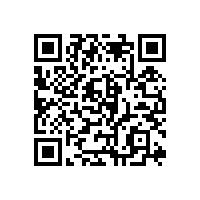
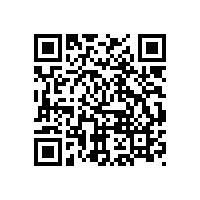
fixes+Quiz

Changed region(s): [[0.15, 0.15, 0.84, 0.84]]

diff --git a/PiDev/src/main/java/com/pi/dev/service/CertificationServiceImpl.java b/PiDev/src/main/java/com/pi/dev/service/CertificationServiceImpl.java
@@ -1,10 +1,18 @@
 package com.pi.dev.service;
 
+import java.util.ArrayList;
+import java.util.HashMap;
+import java.util.LinkedHashMap;
 import java.util.List;
+import java.util.ListIterator;
+import java.util.Map;
+import java.util.TreeMap;
+import java.util.concurrent.ConcurrentHashMap;
 
 import com.pi.dev.models.Certification;
 import com.pi.dev.models.Questions;
 import com.pi.dev.models.Quiz;
+import com.pi.dev.models.ReputationLevel;
 import com.pi.dev.models.Training;
 import com.pi.dev.models.User;
 import com.pi.dev.repository.CertificationRepository;
@@ -17,7 +25,10 @@ import org.springframework.beans.factory.annotation.Autowired;
 
 import org.springframework.stereotype.Service;
 
+import lombok.extern.slf4j.Slf4j;
+
 @Service
+@Slf4j
 public class CertificationServiceImpl implements ICertificationService{
 
     @Autowired
@@ -49,11 +60,104 @@ public class CertificationServiceImpl implements ICertificationService{
                 certif = certification;
             }
         }
-        if(certif.getScore()>questions.size())
+        
+        if((certif.getScore()*100)/questions.size()> 60 )
         {
             return certif;
         }
         return null;
   }
+    private void changeReputation(Long idUser){
+        User user = ur.findById(idUser).orElse(null);
+        int x =user.getReputationPoints();
+        if(x<0){
+            user.setReputationLevel(ReputationLevel.Hated);
+        }else if(x>=0 && x<200){
+            user.setReputationLevel(ReputationLevel.Neutral);
+
+        }
+        else if(x>=200 && x<800){
+            user.setReputationLevel(ReputationLevel.Honorod);
+
+        }else if(x>=800 && x<2000){
+            user.setReputationLevel(ReputationLevel.Exalted);
+        }
+
+        ur.save(user);
+    }
+    @Override
+    public String takeQuiz(Long idUser, Long idQuiz, String s) {
+        Quiz qz = quir.findById(idQuiz).orElse(null);
+        User user = ur.findById(idUser).orElse(null);
+        Training tr = qz.getTraining();
+		List<Questions> qts= qz.getQuestions();
+        List<String> answrs= new ArrayList<String>();
+        List<Integer> results= new ArrayList<Integer>();
+        List<Integer> answrsIndexs= new ArrayList<Integer>();
+        List<Certification> certifs = user.getCertif();
+        Certification certif = new Certification();
+
+        for (Certification certification : certifs) {
+            if(certification.getTraining().equals(tr)){
+                certif=certification;
+            }
+        }
+        
+        for (int i = 0; i < s.length(); i++) {
+            char c =s.charAt(i);
+            int a=Character.getNumericValue(c);  
+            System.out.println(a);
+            results.add(a);
+        }
+            for (Questions questions : qts) {
+                System.out.println(questions.getLabel());
+                for (String st : questions.getAnswers()) {
+                    if(st.equals(questions.getPrompt())){
+                        System.out.println(questions.getAnswers().indexOf(st));
+                        answrsIndexs.add(questions.getAnswers().indexOf(st));
+                    }
+                }
+               
+
+            }
+           
+         int sc=0;
+        for (ListIterator<Integer> iter = results.listIterator(); iter.hasNext(); ) {
+            for (Integer x : answrsIndexs) {
+
+            int et = iter.next();
+            if(et==x)  {
+                System.out.println("true");
+                sc+=1;
+            }  
+            else{
+                System.out.println("false");
+            }
+            }
+
+
+        }
+        int res = (sc*100)/qts.size();
+        certif.setScore(res);
+        cr.save(certif);
+       
+        System.out.println("the results: "+ results);
+        System.out.println("theindexs: "+ answrsIndexs);
+
+        
+        
+        if(res>=60){
+            user.setReputationPoints(user.getReputationPoints()+200);
+            changeReputation(idUser);
+            return "Congratz , u ve passed the test with a score of " + res +" % , you can claim your certification now By scanning the Qr Code click below !! ";
+
+        }
+        else{
+            return "unfortunately u failed at the test ";
+
+        }
+      
+
+    }
     
 }

diff --git a/PiDev/src/main/java/com/pi/dev/service/TrainingServiceImpl.java b/PiDev/src/main/java/com/pi/dev/service/TrainingServiceImpl.java
@@ -16,6 +16,7 @@ import org.springframework.stereotype.Service;
 import com.pi.dev.models.Certification;
 import com.pi.dev.models.Questions;
 import com.pi.dev.models.Quiz;
+import com.pi.dev.models.ReputationLevel;
 import com.pi.dev.models.Training;
 import com.pi.dev.models.User;
 import com.pi.dev.repository.CertificationRepository;
@@ -109,14 +110,39 @@ public class TrainingServiceImpl implements ITrainingService {
 	public void ParticipateToTraining(Long userId, Long trainingId) {
 		// TODO Auto-generated method stub
 		Training tr = qr.findById(trainingId).orElse(null);
+		Training trjoined = new Training();
+
 		User user = ur.findById(userId).orElse(null);
 		Certification certif = new Certification();
+		List<Certification> certifs = user.getCertif();
+		Certification certifjoined = new Certification();
 
-		certif.setTraining(tr);
-		certif.setUser(user);
-		cr.save(certif);
-		tr.setMaxNbrParticipants(tr.getMaxNbrParticipants() + 1);
-		qr.save(tr);
+		for (Certification certification : certifs) {
+			if(certification.getTraining().equals(tr)){
+				trjoined=certification.getTraining();
+			}
+		}
+		
+
+
+		if(!user.getReputationLevel().equals(ReputationLevel.Hated) ){
+			if(tr.equals(trjoined)){
+				System.out.println("Already Joined");
+
+			}else{
+				certif.setTraining(tr);
+				certif.setUser(user);
+				cr.save(certif);
+				tr.setMaxNbrParticipants(tr.getMaxNbrParticipants() + 1);
+				qr.save(tr);
+			}
+		
+		}
+		else
+		{
+			System.out.println("you r being suspended from joining training because of bad reputation");
+		}
+		
 	}
 
 	@Override
@@ -211,9 +237,8 @@ public class TrainingServiceImpl implements ITrainingService {
 		List<String> searchs = user.getSearchHistory();
 		List<Training> alltrainings = qr.findAll();
 		List<Training> recommendedTrainings = new ArrayList<Training>();
-
 		Map<String, Integer> recmds = new LinkedHashMap<String, Integer>();
-
+		
 		for (String sear : searchs) {
 			String[] arrOfStr = sear.split(" ", 5);
 			for (String a : arrOfStr) {
@@ -241,7 +266,6 @@ public class TrainingServiceImpl implements ITrainingService {
 				}
 			}
 		}
-		// TODO Auto-generated method stub
 		return recommendedTrainings;
 	}
 

diff --git a/PiDev/src/main/java/com/pi/dev/controllers/TrainingRestController.java b/PiDev/src/main/java/com/pi/dev/controllers/TrainingRestController.java
@@ -33,6 +33,7 @@ import com.pi.dev.models.CodeGenerator;
 import com.pi.dev.models.Quiz;
 import com.pi.dev.models.Training;
 import com.pi.dev.models.User;
+import com.pi.dev.repository.TrainingRepository;
 import com.pi.dev.repository.UserRepository;
 import com.pi.dev.serviceInterface.ITrainingService;
 
@@ -55,6 +56,8 @@ public class TrainingRestController {
 	ITrainingService qs;
 	@Autowired
 	UserRepository userrepository;
+	@Autowired
+	TrainingRepository tr;
     //http://localhost:8087/SpringMVC/swagger-ui/index.html
 	
 	@ApiOperation(value = "add training")
@@ -140,9 +143,10 @@ public class TrainingRestController {
 	}
 	//QR Code Generator Test v1
 	@ApiOperation(value = "QR Code test")
-	@PostMapping(value = "/qrcode/{user-id}",produces = MediaType.IMAGE_JPEG_VALUE)
-    public ResponseEntity<byte[]> zxingQRCode(@PathVariable("user-id") Long idUser) throws WriterException, IOException, NotFoundException{
+	@PostMapping(value = "/qrcode/{user-id}/{training-id}",produces = MediaType.IMAGE_JPEG_VALUE)
+    public ResponseEntity<byte[]> zxingQRCode(@PathVariable("user-id") Long idUser , @PathVariable("training-id") Long idTraining ) throws WriterException, IOException, NotFoundException{
 		User user=userrepository.findById(idUser).orElse(null);
+		Training train=tr.findById(idTraining).orElse(null);
 
 		//path where we want to get QR Code  
 		String path = "C:\\Users\\Mr.Khlifi\\OneDrive\\Bureau\\backup\\pi-4sae8\\PiDev\\src\\main\\resources\\images\\myQrCode.jpg";  
@@ -153,7 +157,7 @@ public class TrainingRestController {
 		//generates QR code with Low level(L) error correction capability  
 		hashMap.put(EncodeHintType.ERROR_CORRECTION, ErrorCorrectionLevel.L);  
 		//invoking the user-defined method that creates the QR code  
-		String str= " Congratz !! This is your certification"+user.getFirstName()+" "+user.getLastName();  
+		String str= " Congratz !! This is your certification"+user.getFirstName()+" "+user.getLastName() +" On : " +train.getSubject()+ " .";  
 
 		CodeGenerator.generateQRcode(str, path, charset, hashMap, 200, 200);//increase or decrease height and width accodingly   
 		//prints if the QR code is generated   

diff --git a/PiDev/src/main/java/com/pi/dev/controllers/CertificationController.java b/PiDev/src/main/java/com/pi/dev/controllers/CertificationController.java
@@ -1,13 +1,30 @@
 package com.pi.dev.controllers;
 
+import com.pi.dev.models.Quiz;
+import com.pi.dev.serviceInterface.ICertificationService;
+
+import org.springframework.beans.factory.annotation.Autowired;
+import org.springframework.web.bind.annotation.PathVariable;
+import org.springframework.web.bind.annotation.PostMapping;
 import org.springframework.web.bind.annotation.RequestMapping;
+import org.springframework.web.bind.annotation.ResponseBody;
 import org.springframework.web.bind.annotation.RestController;
 
 import io.swagger.annotations.Api;
+import io.swagger.annotations.ApiOperation;
+import io.swagger.v3.oas.annotations.parameters.RequestBody;
 
 @RestController
 @Api(tags = "Manage certification")
 @RequestMapping("/certifications")
 public class CertificationController {
-    
+	@Autowired
+	ICertificationService cs;
+ 
+    @ApiOperation(value = "take quiz")
+	@PostMapping("/take-quiz/{user-id}/{quiz-id}/{answers}")
+	@ResponseBody
+	public String takeQuiz(@PathVariable("user-id")Long idUser, @PathVariable("quiz-id") Long idQuiz,@PathVariable("answers") String s) {
+		return cs.takeQuiz(idUser, idQuiz, s);
+	}
 }

diff --git a/PiDev/src/main/java/com/pi/dev/MyRunner.java b/PiDev/src/main/java/com/pi/dev/MyRunner.java
@@ -17,7 +17,7 @@ public class MyRunner implements CommandLineRunner {
 	
     @Override
     public void run(String... args) throws Exception {
-    	int score=0;
+   /* 	int score=0;
 		List<Questions> quest = qs.findAll(); 
 		Scanner keyboardInput=new Scanner(System.in);
 
@@ -37,7 +37,7 @@ public class MyRunner implements CommandLineRunner {
 		System.err.println("slm"+quest);
 
 		System.err.println("urscore"+score);
-
+*/
      }
 }
 

diff --git a/PiDev/src/main/java/com/pi/dev/models/User.java b/PiDev/src/main/java/com/pi/dev/models/User.java
@@ -82,6 +82,13 @@ public class User implements Serializable {
 	private List<Reclamation> reclamations;
 
 	
-    @OneToOne(cascade = CascadeType.ALL)
-	private Reputation reputation;
+    @Enumerated(EnumType.STRING)
+	private ReputationLevel reputationLevel;
+
+	private int reputationPoints;
+	
+
+	
+
+	
 }

diff --git a/PiDev/src/main/java/com/pi/dev/models/Questions.java b/PiDev/src/main/java/com/pi/dev/models/Questions.java
@@ -25,6 +25,7 @@ import lombok.Data;
 @Entity
 @Data
 public class Questions implements Serializable {
+    
     private static final long serialVersionUID = 1L;
     @Id
     @GeneratedValue(strategy = GenerationType.IDENTITY)

diff --git a/PiDev/src/main/java/com/pi/dev/serviceInterface/ICertificationService.java b/PiDev/src/main/java/com/pi/dev/serviceInterface/ICertificationService.java
@@ -9,6 +9,6 @@ public interface ICertificationService {
 
 	
 	Certification findByIdUserTraining(Long idUser,Long idTraining);
-
+	String takeQuiz(Long idUser,Long idQuiz, String s);
 	
 }
